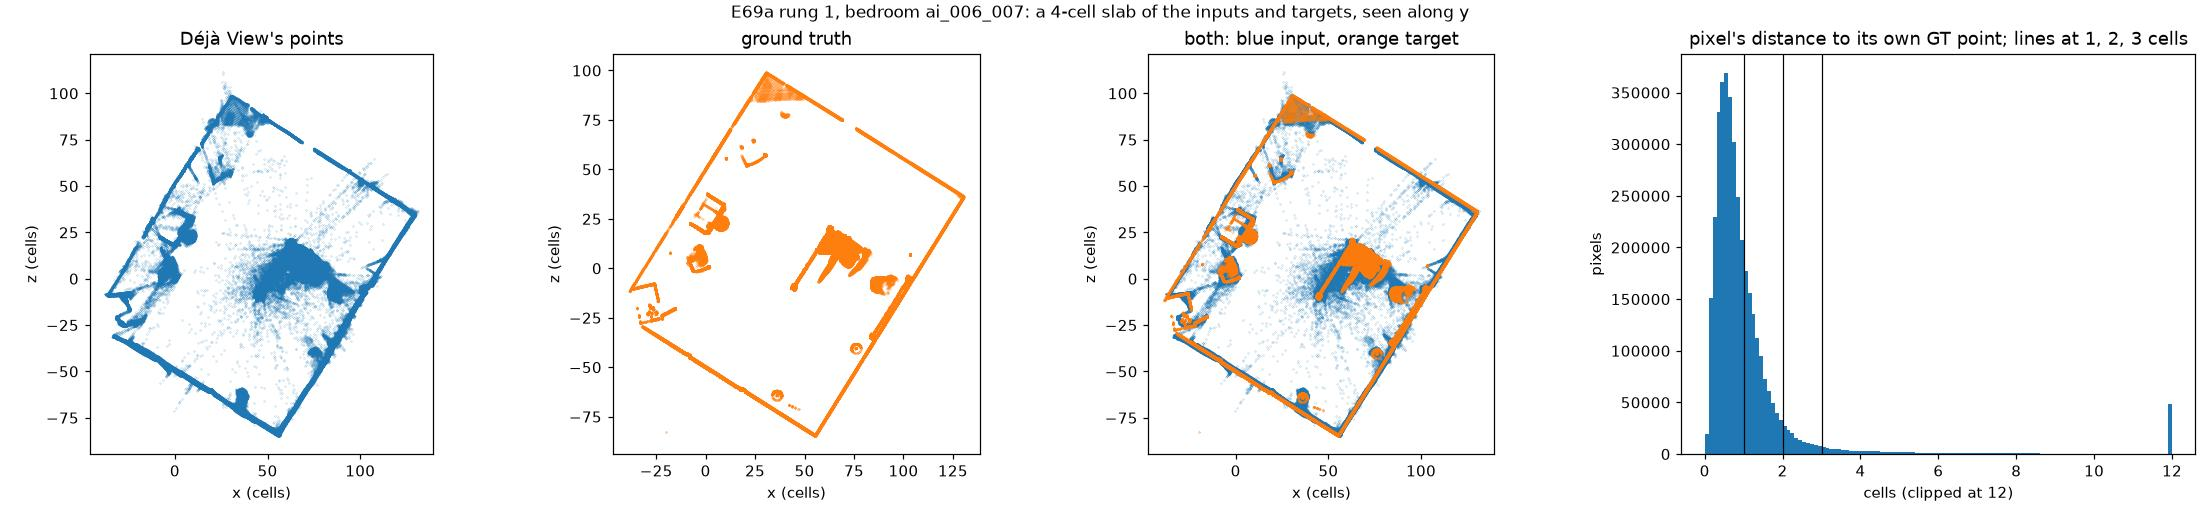
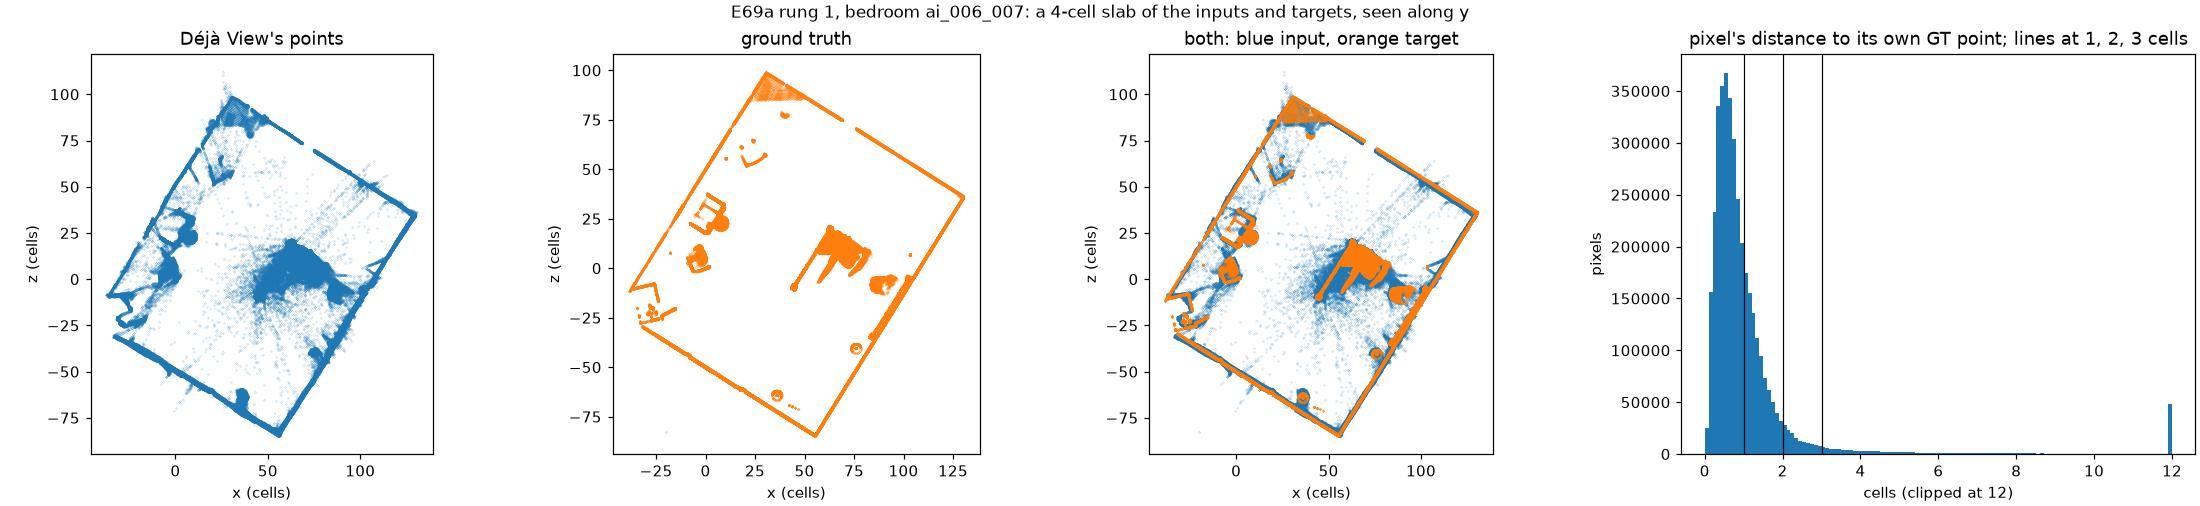
Report E69a: no generator overfits the bedroom to half its gap
On an RTX 5090 the ladder passes the data, speed and learning-rate
rungs and stops at rung 3: the best arm (seeded) closes 0.24 of the
bedroom's gap to its oracle (gate 0.5, bedroom Chamfer 1.430 cm
against Deja View's 1.837), split 0.01, the other four are worse than
Deja View. One seed, 1 200 steps, 0.8 M parameters, constant rate.
Not yet working; a longer schedule or a larger model is rung 6.

Rung 1's reach table and figure are regenerated from Deja View on the
5090; its values move by 0.01 to 0.05 and the offset choice holds.
Adds the rung 3 figure script and the figure.

diff --git a/experiments/scripts/e69a_rung3.py b/experiments/scripts/e69a_rung3.py
@@ -1,0 +1,59 @@
+"""E69a rung 3 figure: the bedroom's Chamfer of every arm against Deja View and the oracles, and the fixed error of each arm's training.
+
+uv run python experiments/scripts/e69a_rung3.py runs/e69a experiments/figures/e69a_rung3.jpg
+"""
+
+import sys
+from pathlib import Path
+
+import matplotlib as mpl
+
+mpl.use("Agg")
+import matplotlib.pyplot as plt
+import yaml
+
+BEDROOM = "ai_006_007_cam_00"
+DEJAVIEW = "Déjà View"
+ARMS = ["lattice", "gated", "implicit", "split", "seeded", "seeded-render"]
+BASELINES = [
+    DEJAVIEW,
+    "Déjà View, kept 0.75",
+    "Déjà View, kept 0.5",
+    "voxel mean, densest half",
+]
+
+
+def main() -> None:
+    """Draw the bedroom's Chamfer per variant and the fixed train error per step."""
+    runs, out = Path(sys.argv[1]), Path(sys.argv[2])
+    scores = max(runs.glob("overfit1_eval-*")) / "run.yaml"
+    scene = yaml.safe_load(scores.read_text())["splits"]["dev"]["scenes"][BEDROOM]
+    names = [*BASELINES, "oracle-lattice", "oracle-seeded", *(f"{a}-s0" for a in ARMS)]
+    fig, (left, right) = plt.subplots(1, 2, figsize=(13, 4.8))
+    values = [scene[n]["chamfer_cm"] for n in names]
+    colors = ["0.6"] * len(BASELINES) + ["tab:green"] * 2 + ["tab:blue"] * len(ARMS)
+    left.barh(names, values, color=colors)
+    left.axvline(scene[DEJAVIEW]["chamfer_cm"], color="k", lw=1, ls="--")
+    left.invert_yaxis()
+    left.set_xlabel("Chamfer on the bedroom ai_006_007 (cm), lower is better")
+    left.set_title("Overfit the bedroom: no arm reaches its oracle")
+    for i, v in enumerate(values):
+        left.text(v, i, f" {v:.2f}", va="center", fontsize=8)
+    for arm in ARMS:
+        record = yaml.safe_load(
+            (runs / "overfit1" / f"e69a-overfit1-{arm}-s0.yaml").read_text()
+        )
+        steps = [e["step"] for e in record["curve"]]
+        right.plot(
+            steps, [e["train"]["chamfer_cells"] for e in record["curve"]], label=arm
+        )
+    right.set_xlabel("training step (constant learning rate, 1 200 steps)")
+    right.set_ylabel("fixed train error, Chamfer (cells of 192)")
+    right.set_title("The error falls, then stalls at about 0.3 cells")
+    right.legend(fontsize=8)
+    fig.tight_layout()
+    fig.savefig(out, dpi=110)
+
+
+if __name__ == "__main__":
+    main()

diff --git a/experiments/LOG.md b/experiments/LOG.md
@@ -6920,3 +6920,80 @@ Interim entry: the check that the plan puts before any table.
   `uv run generate-cloud --config configs/e69a.yaml --rung overfit1 --lr-file runs/e69a/lr.yaml`, then `uv run python
   experiments/scripts/e69a_gate.py config overfit1`, `uv run python -m src.analysis.cloud_eval --cfg runs/e69a/overfit1_eval.yaml --splits
   dev` and `uv run python experiments/scripts/e69a_gate.py gate overfit1`; the figures: `experiments/scripts/e69a_renders.py`.
+
+## E69a, result: the ladder stops at rung 3, no arm overfits the bedroom to half its gap to the oracle; "not yet working" (issue #69, 21.11.2026)
+- **Setting:** the plan above, unchanged (`configs/e69a.yaml`, gates and evaluation as planned), run on an RTX 5090 (VC15-VC18 partition
+  `rtx_5090`; the plan's timings are from a shared RTX 3080) with `JOBS=3` (three arms on the one GPU), one seed, commit 0f2b4da plus ca5e83f (the
+  fix below). Data: 54 Hypersim scenes (40 train, 11 val, 3 dev) downloaded and prepared on the login node, Déjà View (K = 16) and SAM 3 (nyu40 at
+  0.3) run on the 5090. Déjà View on this GPU differs from the 3080's by a little: bedroom Chamfer 1.837 cm (plan 1.846), dev mean 3.480 (3.501), and
+  the reach table (`experiments/results/e69a_reach.txt`) moved by 0.01 to 0.05 per entry; `offset: 2` still reaches 85% or more of the points on every
+  scene. Rungs 1 and 2 and the learning-rate rung were passed; rung 3 failed its gate; rungs 4, 5 and the class sources were not run. Test and stress
+  were not touched; val was not used (rung 3 does not read it).
+- **Commands:** `sbatch slurm/e69a.sbatch` (untracked: tests, then `JOBS=3 experiments/scripts/e69a.sh`; `HF_HUB_OFFLINE=1`; a stand-in `git`
+  on `PATH`, because the compute nodes have no git binary and `git_hash()` calls it). Jobs 3502 (SAM 3 failed: gated-repo 401 without a token),
+  3540 (git missing), 3554 (resume lost the curves), 3664 (same), 3675 (scorer wanted DSINE normals), 3680 (rung 3 gate). Figure:
+  `experiments/scripts/e69a_rung3.py` -> `experiments/figures/e69a_rung3.jpg`.
+- **What had to be fixed to run it, none of it a change to the experiment:**
+  (1) the cluster has no HF token and the SAM 3 processor asks the gated repo for an optional file, so jobs run offline from the cache;
+  (2) no git on compute nodes: a stand-in `git` answering `rev-parse` and `status` from files the submitter writes, so every run record carries the true
+  hash and "-dirty"; (3) **a bug in the repo, fixed in ca5e83f:** `run_model` rewrote a loaded model's record from scratch, so a resumed run lost each
+  model's `seconds` and `curve` and `e69a_gate.py lr` raised `KeyError: 'curve'`; a loaded model now keeps both (test:
+  `test_a_resumed_model_keeps_the_curve_of_its_training`); (4) `cloud_eval` refuses to start unless every scene has a cached DSINE normals file,
+  which the plan's prepare step never made (the 3080 had them): DSINE-hub at a6b7d25 (git-ignored, non-commercial) ran on the login CPU for the 14
+  dev and val scenes; the scorer does not read them for these metrics. The learning-rate probes that a resume had stripped of their curves were
+  set aside (`runs/e69a/stale_*`) and retrained; nothing was deleted.
+- **Rung 2 (speed), RTX 5090:** the train step takes 0.05 to 0.08 s and a step with its validation crop 0.08 to 0.16 s (plan, 3080: 0.25-0.45 and
+  0.48-0.83 s), peak 1.3 to 3.0 GiB; every arm passes the gate by a wide margin. Three arms at once take about 0.3 s a step each, so `JOBS=3` buys
+  little. Training 1 200 steps took 375 to 516 s per arm at three at a time; scoring takes 2 to 6 s per variant and scene.
+- **Learning rate (300 steps on the bedroom, best fixed train error in cells, one seed):**
+
+  | arm | 3e-4 | 1e-3 | 3e-3 | chosen |
+  |---|---|---|---|---|
+  | lattice | 0.366 | 0.346 | 0.328 | 3e-3 |
+  | gated | 0.360 | 0.363 | 0.326 | 3e-3 |
+  | implicit | 0.418 | 0.408 | 0.406 | 3e-3 |
+  | split | 0.379 | 0.389 | 0.392 | 3e-4 |
+  | seeded | 0.246 | 0.302 | 0.288 | 3e-4 |
+  | seeded-render | 0.294 | 0.338 | 0.350 | 3e-4 |
+
+  The fixed error moves by about 0.04 between neighbouring evaluations of one run (right panel of the figure), so the rates of lattice, gated,
+  implicit and split are within the noise of the probe; only seeded's 3e-4 stands out. The rate was not tuned further.
+- **Rung 3 (overfit the bedroom ai_006_007, 1 200 steps, kept step = least fixed train error; Chamfer cm, scored by `cloud_eval` on the 20 views;
+  baselines on the same scorer: Déjà View 1.837 (accuracy 2.51, completeness 1.16), kept 0.75 1.786, kept 0.5 1.732, voxel mean at 192 cells 4.445,
+  densest half 2.651, `oracle-lattice` 0.267, `oracle-seeded` 0.153):**
+
+  | arm | lr | accuracy | completeness | Chamfer | gap to its oracle closed (gate: 0.5) | dev mean Chamfer (3 scenes, trained on only the bedroom) | best fixed train error (cells) |
+  |---|---|---|---|---|---|---|---|
+  | lattice | 3e-3 | 2.88 | 1.22 | 2.052 | -0.137 | 4.887 | 0.282 (step 1000) |
+  | gated | 3e-3 | 2.68 | 1.23 | 1.953 | -0.074 | 4.758 | 0.292 (1000) |
+  | implicit | 3e-3 | 3.07 | 1.16 | 2.112 | -0.175 | 5.465 | 0.288 (1000) |
+  | split | 3e-4 | 2.38 | 1.25 | 1.816 | +0.013 | 4.416 | 0.308 (1000) |
+  | seeded | 3e-4 | 1.85 | 1.01 | **1.430** | **+0.241** | 4.087 | 0.227 (700) |
+  | seeded-render | 3e-4 | 1.62 | 2.66 | 2.139 | -0.180 | 9.998 | 0.284 (900) |
+
+  Déjà View's dev mean is 3.480 (oracles 0.753 and 0.431). Per dev scene (Déjà View / seeded): ai_010_007 1.61 / 2.90, ai_006_007 1.84 / 1.43,
+  ai_044_001 7.00 / 7.93: the best arm wins the scene it trained on and loses the two it did not, as in X69. The seeded-render arm trades
+  completeness for accuracy (accuracy 1.62, completeness 2.66) and loses 37 cm of completeness on ai_044_001. Only `seeded` is below Déjà View on
+  the bedroom by more than the 0.1 cm band (0.41 cm), and it closes 0.24 of the 1.68 cm gap to its oracle.
+- **Gate:** no arm closes half its gap (best: seeded +0.241, split +0.013, the other four negative), so `e69a.sh` stops here, as designed.
+- **Predictions written before the run:** (1) "`split` passes narrowly, the others fall short": **wrong**, `split` closed 0.013 of its gap (X69i's
+  0.52 was a larger model, a one-cycle schedule and 2 400 steps), and `seeded` was the best arm, not `split`; (2) "if none passes the experiment
+  stops here and the finding is that no head overfits one scene under the ladder's rules": **right**, this is the case; (3) rung 4, rung 5 and the
+  class-source predictions were not tested.
+- **Diagnosis at this rung (the verdict table of `docs/experiments.md`):** the fixed train error falls from 0.78 to about 0.3 cells in 300 to 500
+  steps and then stalls, noisy by about 0.04, and does not reach "about 0" (the bar of rungs 3 and 4); the `seeded` arm starts at Déjà View's
+  own error (0.35 cells at step 0, the identity check of the plan: its untrained output is its input bit for bit) and stays near it. A loss
+  that falls and plateaus well above 0 with one scene is not a `zero_grad` or target bug (the arms differ, the seeded identity holds, the targets
+  render right in `e69a_data.jpg`): it is underfitting under the rung-0 limits, 0.8 M parameters, a constant learning rate, no decay, 1 200 steps.
+  X69's 1.42 M parameter model with a one-cycle schedule reached 1.05 to 1.33 cm on the bedroom, so capacity or schedule decides it, which the plan
+  assigned to rung 6.
+- **Spread and budget:** one seed per arm, one scene; the fixed error of a run fluctuates by about 0.04 cells between evaluations and the
+  Chamfer of the kept step is the minimum of 13 of them, so a gain below about 0.1 cm is not shown. GPU time: six jobs, 2.3 h of one RTX 5090 in
+  all (138 min of job time), four of them failures of the setup above and about 20 min of that the training of the six arms; about 61 h of queue
+  waiting in all (17.4, 8.4, 33.1 and 2.5 h for the first four jobs; the cluster was busy and a job array of the same user, `e81a`, held the GPUs for a day).
+- **Conclusion: not yet working, and not "fails".** Under the ladder's rung-0 rules no generator overfits the bedroom to half its gap from the
+  oracle, so no claim follows about generating against moving or dropping points, and nothing from rungs 4 and 5 can be said. What is missing
+  and is a different entry (rung 6): a longer schedule with a decaying rate and a larger model (X69's 1.42 M model fit the bedroom), and the
+  arms that did best on one scene (`seeded`, 1.430 against Déjà View's 1.837) are the candidates to climb with them. A tuned simple baseline
+  below the arms was not shown either: Déjà View kept 0.5 (1.732) and 0.75 (1.786) are within 0.1 cm of Déjà View on the bedroom and beat every
+  arm but `seeded` there.
